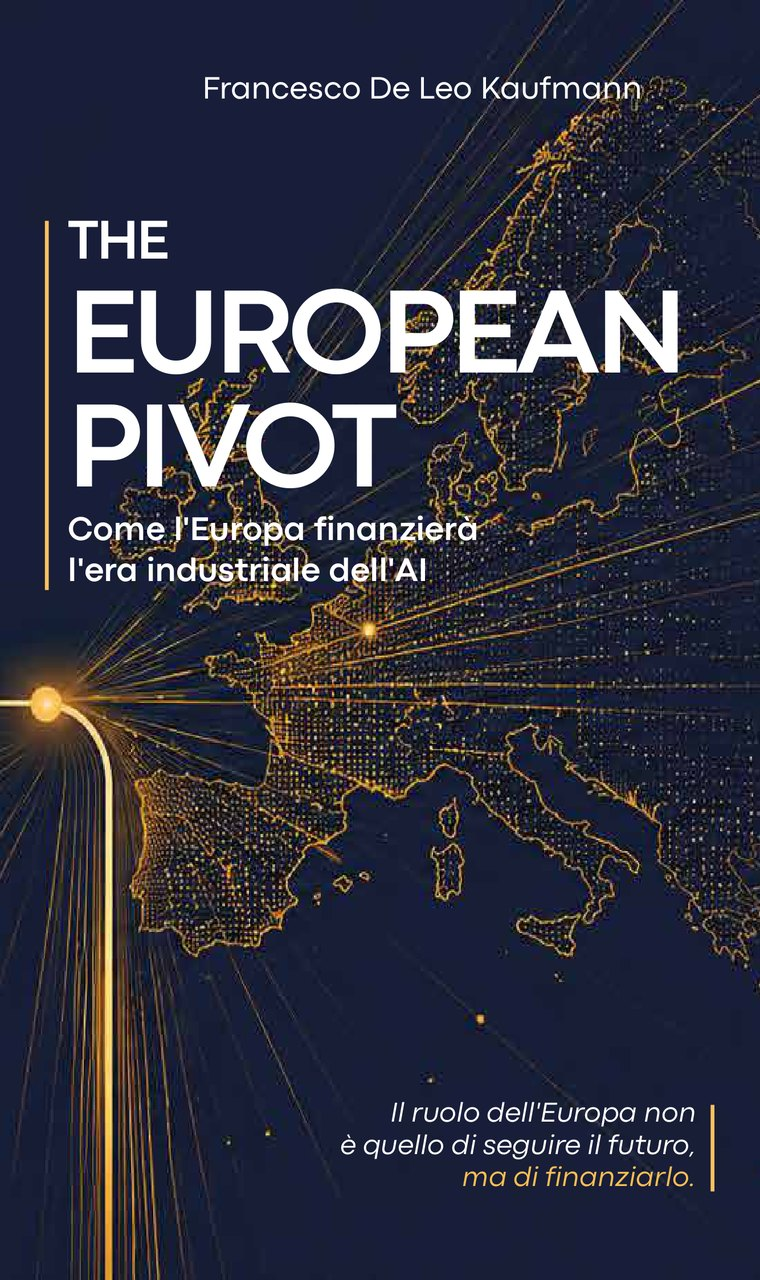
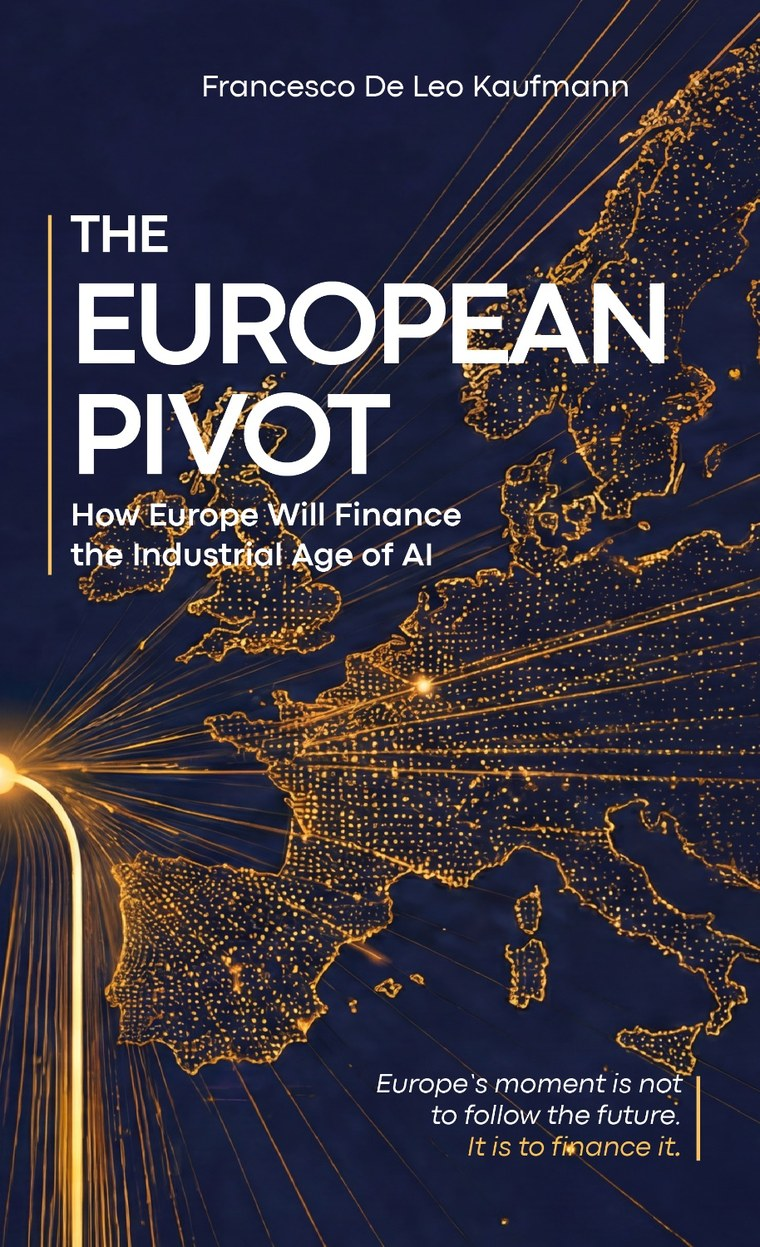
The European Pivot: replace cover with the final English-subtitle artwork
Swap in the supplied cover (English subtitle + 'Europe's moment is not to
follow the future. It is to finance it.' tagline); match the 3D book aspect
ratio to the new image. Verified with a headless render.

Claude-Session: https://claude.ai/code/session_01WkW2VFUhv3bfriX24TaFE9

diff --git a/the-european-pivot.html b/the-european-pivot.html
@@ -10,7 +10,7 @@
   <link rel="preconnect" href="https://fonts.googleapis.com" />
   <link rel="preconnect" href="https://fonts.gstatic.com" crossorigin />
   <link href="https://fonts.googleapis.com/css2?family=Space+Grotesk:wght@300;400;500;600;700&family=Inter:wght@300;400;500;600;700&family=JetBrains+Mono:wght@400;500&display=swap" rel="stylesheet" />
-  <link rel="stylesheet" href="styles.css?v=67" />
+  <link rel="stylesheet" href="styles.css?v=68" />
 </head>
 <body>
   <div class="grain" aria-hidden="true"></div>
@@ -43,7 +43,7 @@
         <div class="bhero__media">
           <div class="book3d book3d--lg book3d--cover" id="book3d">
             <div class="book3d__cover">
-              <img class="book3d__img" src="assets/european-pivot-cover.jpg?v=67" width="760" height="1280" alt="The European Pivot — book cover" />
+              <img class="book3d__img" src="assets/european-pivot-cover.jpg?v=68" width="760" height="1247" alt="The European Pivot — book cover" />
             </div>
           </div>
         </div>
@@ -184,6 +184,6 @@
     </div>
   </footer>
 
-  <script src="script.js?v=67"></script>
+  <script src="script.js?v=68"></script>
 </body>
 </html>

diff --git a/styles.css b/styles.css
@@ -268,7 +268,7 @@ img { max-width: 100%; display: block; }
 @keyframes bookfloat { 0%,100% { transform: rotateY(-26deg) rotateX(5deg) translateY(0); } 50% { transform: rotateY(-20deg) rotateX(5deg) translateY(-16px); } }
 
 /* Real cover image used as the 3D book's cover face (deeper 3D + page stack) */
-.book3d--cover { aspect-ratio: 760 / 1280; animation: bookfloat3d 6.5s var(--ease) infinite; }
+.book3d--cover { aspect-ratio: 760 / 1247; animation: bookfloat3d 6.5s var(--ease) infinite; }
 .book3d--cover .book3d__cover { padding: 0; background: #0c1138; overflow: visible; border-radius: 2px 4px 4px 2px; transform-style: preserve-3d; box-shadow: 40px 46px 90px -26px rgba(0,0,0,0.8); }
 .book3d__img { position: absolute; inset: 0; width: 100%; height: 100%; object-fit: cover; display: block; border-radius: inherit; backface-visibility: hidden; }
 /* page-stack thickness along the right edge, folded back in 3D */

diff --git a/the-ai-reckoning-begins.html b/the-ai-reckoning-begins.html
@@ -10,7 +10,7 @@
   <link rel="preconnect" href="https://fonts.googleapis.com" />
   <link rel="preconnect" href="https://fonts.gstatic.com" crossorigin />
   <link href="https://fonts.googleapis.com/css2?family=Space+Grotesk:wght@300;400;500;600;700&family=Inter:wght@300;400;500;600;700&family=JetBrains+Mono:wght@400;500&display=swap" rel="stylesheet" />
-  <link rel="stylesheet" href="styles.css?v=67" />
+  <link rel="stylesheet" href="styles.css?v=68" />
 </head>
 <body class="article-page">
   <div class="grain" aria-hidden="true"></div>
@@ -136,7 +136,7 @@
     </div>
   </footer>
 
-  <script src="posts.js?v=67"></script>
-  <script src="script.js?v=67"></script>
+  <script src="posts.js?v=68"></script>
+  <script src="script.js?v=68"></script>
 </body>
 </html>

diff --git a/the-deflationary-rotation.html b/the-deflationary-rotation.html
@@ -10,7 +10,7 @@
   <link rel="preconnect" href="https://fonts.googleapis.com" />
   <link rel="preconnect" href="https://fonts.gstatic.com" crossorigin />
   <link href="https://fonts.googleapis.com/css2?family=Space+Grotesk:wght@300;400;500;600;700&family=Inter:wght@300;400;500;600;700&family=JetBrains+Mono:wght@400;500&display=swap" rel="stylesheet" />
-  <link rel="stylesheet" href="styles.css?v=67" />
+  <link rel="stylesheet" href="styles.css?v=68" />
 </head>
 <body class="article-page">
   <div class="grain" aria-hidden="true"></div>
@@ -280,7 +280,7 @@
     </div>
   </footer>
 
-  <script src="posts.js?v=67"></script>
-  <script src="script.js?v=67"></script>
+  <script src="posts.js?v=68"></script>
+  <script src="script.js?v=68"></script>
 </body>
 </html>

diff --git a/the-great-ai-shakeout.html b/the-great-ai-shakeout.html
@@ -10,7 +10,7 @@
   <link rel="preconnect" href="https://fonts.googleapis.com" />
   <link rel="preconnect" href="https://fonts.gstatic.com" crossorigin />
   <link href="https://fonts.googleapis.com/css2?family=Space+Grotesk:wght@300;400;500;600;700&family=Inter:wght@300;400;500;600;700&family=JetBrains+Mono:wght@400;500&display=swap" rel="stylesheet" />
-  <link rel="stylesheet" href="styles.css?v=67" />
+  <link rel="stylesheet" href="styles.css?v=68" />
 </head>
 <body class="article-page">
   <div class="grain" aria-hidden="true"></div>
@@ -281,7 +281,7 @@
     </div>
   </footer>
 
-  <script src="posts.js?v=67"></script>
-  <script src="script.js?v=67"></script>
+  <script src="posts.js?v=68"></script>
+  <script src="script.js?v=68"></script>
 </body>
 </html>

diff --git a/index.html b/index.html
@@ -14,7 +14,7 @@
   <link rel="preconnect" href="https://fonts.googleapis.com" />
   <link rel="preconnect" href="https://fonts.gstatic.com" crossorigin />
   <link href="https://fonts.googleapis.com/css2?family=Space+Grotesk:wght@300;400;500;600;700&family=Inter:wght@300;400;500;600;700&family=JetBrains+Mono:wght@400;500&display=swap" rel="stylesheet" />
-  <link rel="stylesheet" href="styles.css?v=67" />
+  <link rel="stylesheet" href="styles.css?v=68" />
 </head>
 <body>
   <div class="grain" aria-hidden="true"></div>
@@ -308,7 +308,7 @@
     </div>
   </footer>
 
-  <script src="posts.js?v=67"></script>
-  <script src="script.js?v=67"></script>
+  <script src="posts.js?v=68"></script>
+  <script src="script.js?v=68"></script>
 </body>
 </html>

diff --git a/intelligence-library.html b/intelligence-library.html
@@ -10,7 +10,7 @@
   <link rel="preconnect" href="https://fonts.googleapis.com" />
   <link rel="preconnect" href="https://fonts.gstatic.com" crossorigin />
   <link href="https://fonts.googleapis.com/css2?family=Space+Grotesk:wght@300;400;500;600;700&family=Inter:wght@300;400;500;600;700&family=JetBrains+Mono:wght@400;500&display=swap" rel="stylesheet" />
-  <link rel="stylesheet" href="styles.css?v=67" />
+  <link rel="stylesheet" href="styles.css?v=68" />
 </head>
 <body>
   <div class="grain" aria-hidden="true"></div>
@@ -139,7 +139,7 @@
     </div>
   </footer>
 
-  <script src="posts.js?v=67"></script>
-  <script src="script.js?v=67"></script>
+  <script src="posts.js?v=68"></script>
+  <script src="script.js?v=68"></script>
 </body>
 </html>

diff --git a/library.html b/library.html
@@ -10,7 +10,7 @@
   <link rel="preconnect" href="https://fonts.googleapis.com" />
   <link rel="preconnect" href="https://fonts.gstatic.com" crossorigin />
   <link href="https://fonts.googleapis.com/css2?family=Space+Grotesk:wght@300;400;500;600;700&family=Inter:wght@300;400;500;600;700&family=JetBrains+Mono:wght@400;500&display=swap" rel="stylesheet" />
-  <link rel="stylesheet" href="styles.css?v=67" />
+  <link rel="stylesheet" href="styles.css?v=68" />
 </head>
 <body>
   <div class="grain" aria-hidden="true"></div>
@@ -175,6 +175,6 @@
     </div>
   </footer>
 
-  <script src="script.js?v=67"></script>
+  <script src="script.js?v=68"></script>
 </body>
 </html>

diff --git a/the-age-of-intelligent-motion.html b/the-age-of-intelligent-motion.html
@@ -10,7 +10,7 @@
   <link rel="preconnect" href="https://fonts.googleapis.com" />
   <link rel="preconnect" href="https://fonts.gstatic.com" crossorigin />
   <link href="https://fonts.googleapis.com/css2?family=Space+Grotesk:wght@300;400;500;600;700&family=Inter:wght@300;400;500;600;700&family=JetBrains+Mono:wght@400;500&display=swap" rel="stylesheet" />
-  <link rel="stylesheet" href="styles.css?v=67" />
+  <link rel="stylesheet" href="styles.css?v=68" />
 </head>
 <body>
   <div class="grain" aria-hidden="true"></div>
@@ -146,6 +146,6 @@
     </div>
   </footer>
 
-  <script src="script.js?v=67"></script>
+  <script src="script.js?v=68"></script>
 </body>
 </html>

diff --git a/the-rise-of-velocity.html b/the-rise-of-velocity.html
@@ -10,7 +10,7 @@
   <link rel="preconnect" href="https://fonts.googleapis.com" />
   <link rel="preconnect" href="https://fonts.gstatic.com" crossorigin />
   <link href="https://fonts.googleapis.com/css2?family=Space+Grotesk:wght@300;400;500;600;700&family=Inter:wght@300;400;500;600;700&family=JetBrains+Mono:wght@400;500&display=swap" rel="stylesheet" />
-  <link rel="stylesheet" href="styles.css?v=67" />
+  <link rel="stylesheet" href="styles.css?v=68" />
 </head>
 <body>
   <div class="grain" aria-hidden="true"></div>
@@ -146,6 +146,6 @@
     </div>
   </footer>
 
-  <script src="script.js?v=67"></script>
+  <script src="script.js?v=68"></script>
 </body>
 </html>

diff --git a/thesis.html b/thesis.html
@@ -10,7 +10,7 @@
   <link rel="preconnect" href="https://fonts.googleapis.com" />
   <link rel="preconnect" href="https://fonts.gstatic.com" crossorigin />
   <link href="https://fonts.googleapis.com/css2?family=Space+Grotesk:wght@300;400;500;600;700&family=Inter:wght@300;400;500;600;700&family=JetBrains+Mono:wght@400;500&display=swap" rel="stylesheet" />
-  <link rel="stylesheet" href="styles.css?v=67" />
+  <link rel="stylesheet" href="styles.css?v=68" />
 </head>
 <body>
   <div class="grain" aria-hidden="true"></div>
@@ -267,6 +267,6 @@
     </div>
   </footer>
 
-  <script src="script.js?v=67"></script>
+  <script src="script.js?v=68"></script>
 </body>
 </html>

diff --git a/velocity-capitalism.html b/velocity-capitalism.html
@@ -10,7 +10,7 @@
   <link rel="preconnect" href="https://fonts.googleapis.com" />
   <link rel="preconnect" href="https://fonts.gstatic.com" crossorigin />
   <link href="https://fonts.googleapis.com/css2?family=Space+Grotesk:wght@300;400;500;600;700&family=Inter:wght@300;400;500;600;700&family=JetBrains+Mono:wght@400;500&display=swap" rel="stylesheet" />
-  <link rel="stylesheet" href="styles.css?v=67" />
+  <link rel="stylesheet" href="styles.css?v=68" />
 </head>
 <body>
   <div class="grain" aria-hidden="true"></div>
@@ -174,6 +174,6 @@
     </div>
   </footer>
 
-  <script src="script.js?v=67"></script>
+  <script src="script.js?v=68"></script>
 </body>
 </html>
